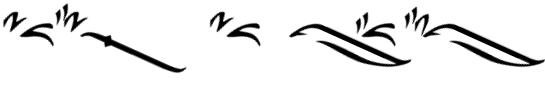
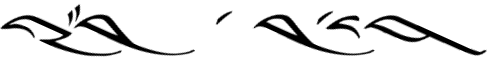
TC26-2

Changed region(s): [[0.5236, 0.0759, 1.0, 0.7848], [0.0, 0.0506, 0.4004, 0.8608], [0.3696, 0.1266, 0.4928, 0.5316]]

diff --git a/index.html b/index.html
@@ -56,7 +56,7 @@
 
       <div class="textTenno">
         <div class="teach">
-          <img class="recolour" src="TennoMessage.png" alt="Tenno Message: Who is she?"/>
+          <img class="recolour" src="TennoMessage.png" alt="Tenno Message: Pick a card"/>
         </div>
       </div>
 